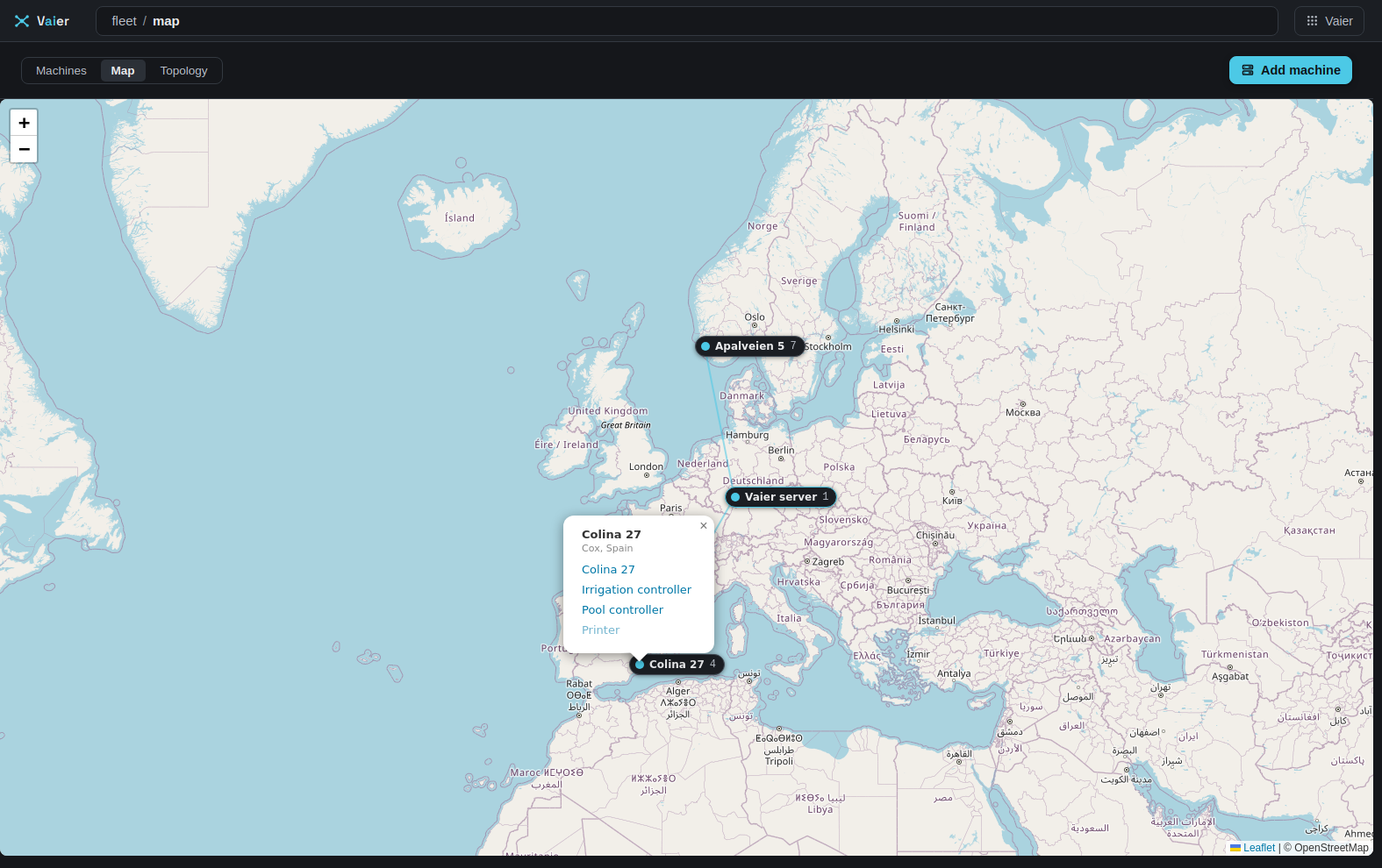
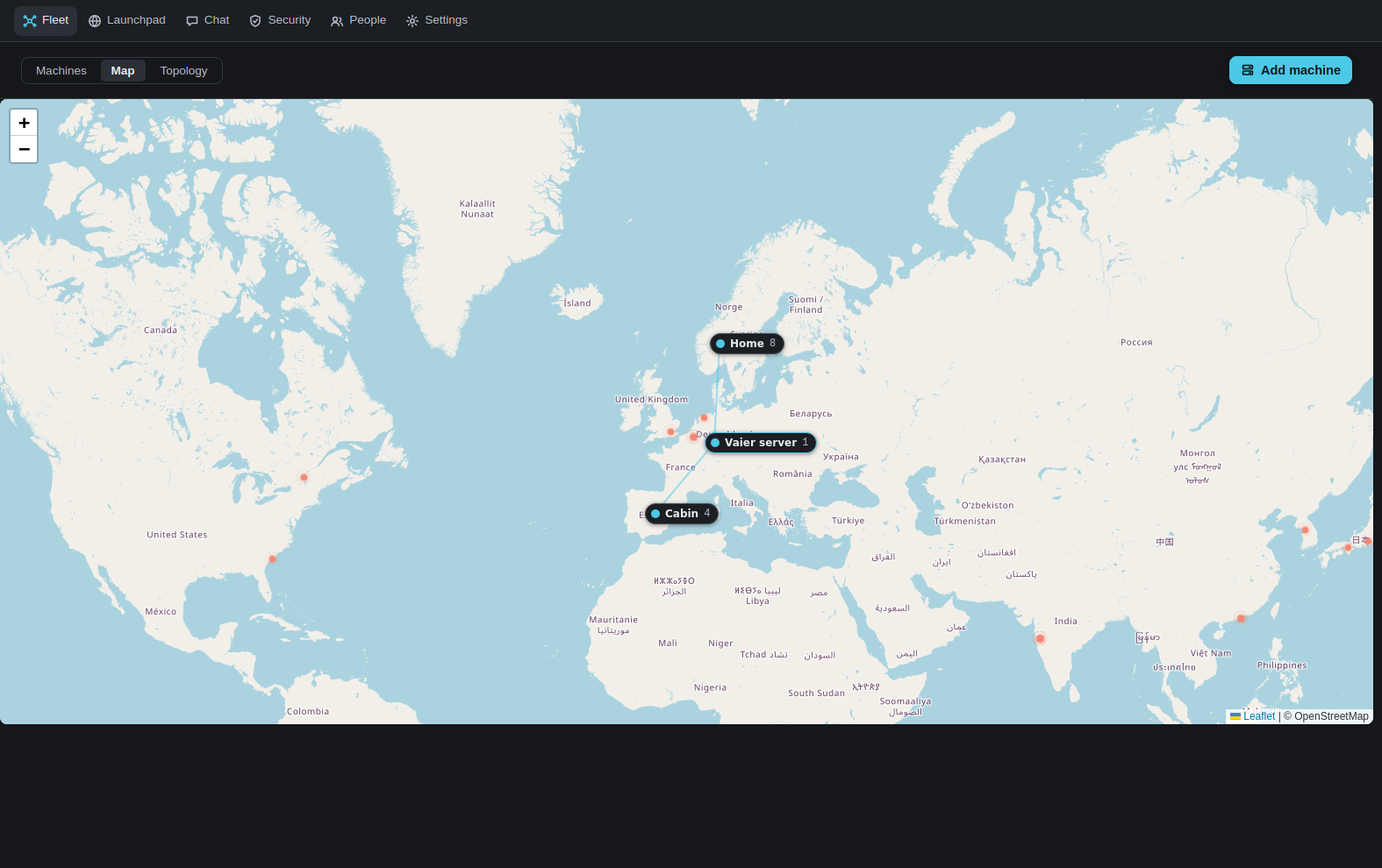
Sync ad19653

diff --git a/web/index.html b/web/index.html
@@ -470,7 +470,7 @@
             </figure>
             <div class="shots-pair">
                 <figure class="shot">
-                    <img src="img/fleet.jpg" width="1440" height="630" loading="lazy" alt="The fleet: every machine as a card">
+                    <img src="img/fleet.jpg" width="1440" height="710" loading="lazy" alt="The fleet: every machine as a card">
                     <figcaption>Every machine in one place.</figcaption>
                 </figure>
                 <figure class="shot">

diff --git a/docs/EXPLORER.md b/docs/EXPLORER.md
@@ -12,7 +12,7 @@ Your Vaier's address takes an admin to the **Fleet** and everyone else to the **
 
 - The **navigation bar** holds **Fleet**, **Launchpad**, **Chat** (while an Anthropic key is stored), **Security**, **People** and **Settings**, with the current one marked. It sits in the topbar, as icons only on a phone. Admins see it on the Launchpad too; nobody else does.
 - Your avatar, at the topbar's right end, holds **Concepts** (the in-app glossary) and **Sign out**.
-- **Settings** holds what you set up once: backup hour, survival kit, mail, Chat's key, default disk alert level and **Fleet credentials**. Each is one line with **Change**. Trouble is never shown here; it goes in **Needs you**.
+- **Settings** holds what you set up once: backup hour, survival kit, mail, Chat's key, default disk threshold and **Fleet credentials**. Each is one line with **Change**. Trouble is never shown here; it goes in **Needs you**.
 
 ---
 
@@ -25,7 +25,7 @@ The top of the **Fleet** answers "is anything wrong?". **Needs you** is one list
 - an alert mail that did not go out (**Check mail**);
 - a Vaier update that failed or rolled back;
 - a server not answering (**I switched it off**, see below) — phones and laptops that are away are never listed;
-- a backup that went wrong (**Open its backup**, **Get this machine ready**, or **Back up everything**);
+- a backup that went wrong (**Open its backup**, **Get this machine ready**, or **Back up as root**);
 - a disk past or near its threshold (**Open its disk**);
 - security updates waiting (**Install OS updates**);
 - [reverse proxy config](MONITORING.md#reverse-proxy-audit) entries no route can reach (**See which**);
@@ -59,7 +59,7 @@ A machine's page shows its name (plus one line when it is not well), its Needs y
 
 A door is greyed, with the reason on hover, when Vaier can't sign in. Below the doors come **What to do next** (nudges for this machine) and, when updates wait, a line such as "4 updates waiting · none urgent" with **Install OS updates**.
 
-Everything else sits in one closed fold, **Sign-in, details and removal**: who Vaier signs in as (**Change**, **Stop Vaier signing in here**), addresses, **Edit details**, **Send its setup again**, **Give it new keys**, and **Remove machine** last, in red.
+Everything else sits in one closed fold, **Sign-in, details and removal**: who Vaier signs in as (**Change**, **Stop Vaier signing in here**), addresses, **Edit details**, **Send its setup again**, and last a red fold holding **Give it new keys** and **Remove machine**, each confirmed by typing the machine's name.
 
 ![The Explorer's fleet: every machine as a card](vaier-explorer.jpg)
 
@@ -75,7 +75,7 @@ A machine Vaier hasn't read yet shows no disk mark. That is not a claim the disk
 
 People, Security, Chat and Settings live in the **navigation bar**, not in the fleet. See [Access management](AUTH.md#access-management) for People.
 
-![The fleet's Map: one marker per site, each joined to the Vaier server by its tunnel, with a site opened to list its machines](vaier-map.png)
+![The fleet's Map: one marker per site, each joined to the Vaier server by its tunnel](vaier-map.png)
 
 ### Files
 
@@ -83,7 +83,7 @@ Folders are read over SFTP as you open them, using the machine's stored credenti
 
 ### Containers and published services
 
-**Apps** lists containers with a published port, running or stopped. A stopped one reads **DOWN**; one Vaier saw running and now finds stopped reads **gone**.
+**Apps** lists containers with a port, published or only exposed, running or stopped. A stopped one reads **DOWN**; one Vaier saw running and now finds stopped reads **gone**.
 
 Vaier cannot start, stop or read logs — use the shell. Its one action is **Update** on an out-of-date container started by compose: it pulls the new image, recreates the container and removes the old image. A container on a **moving tag** (a daily `latest`) is marked `moving` and never mailed about.
 
@@ -91,7 +91,7 @@ Vaier cannot start, stop or read logs — use the shell. Its one action is **Upd
 
 ### Disk
 
-**Storage** lists every real filesystem with its usage and threshold. Mute one that is full by design, or give it its own threshold. A new volume is watched by default. See [MONITORING](MONITORING.md).
+**Storage** lists every real filesystem with its usage and threshold. Stop watching one that is full by design, or give it its own threshold; one using the fleet's shows it greyed. A new volume is watched by default. See [MONITORING](MONITORING.md).
 
 ### The backup server's own entry
 
@@ -105,7 +105,7 @@ Pick the fleet's backup server with **Make this the fleet's backup server** on a
 - **Download** a file, or a zip of a folder or several items. Anything Vaier cannot read, and anything that is not an ordinary file (a pipe, socket or broken link), is listed in *Not included.txt* inside the zip.
 - **Transfer** a file or folder to another machine, with live progress. What Vaier cannot read is left out, as in a zip. Something of the same name already there is never replaced without asking; a restore from the past puts the past back without asking.
 - **Upload** by dropping files on the folder or with **Upload files**. Files only. An existing name is never replaced without asking.
-- **Delete** behind a typed machine-name confirmation. It cannot be undone.
+- **Delete**, confirmed by typing the file's name (or, for several, how many). It cannot be undone.
 
 **Every write goes to the present.** Copying *from* an archive and pasting back is how you restore. Verbs Vaier's sign-in can't perform are hidden; an ACL or read-only mount can still make the machine refuse.
 
@@ -185,11 +185,11 @@ Ctrl/Cmd+C and Ctrl/Cmd+V work as usual. In vim, htop or Claude Code, hold **Shi
 
 Store the one SSH login Vaier uses for each machine, a password or a private key, from the machine's page. Secrets are encrypted and never shown back.
 
-**SSH access** turns SSH on or off per machine; off hides Shell, Files and Storage. Machines where Vaier signs in as `root` are tagged. No key? Vaier generates one and shows the line for `authorized_keys`.
+**SSH access** turns SSH on or off per machine; off means Vaier never signs in there: Shell, Files and Storage are hidden, and Marvin, backups and fleet credentials leave it alone. Machines where Vaier signs in as `root` are tagged. No key? Vaier generates one and shows the line for `authorized_keys`.
 
 ### OS updates
 
-Every five minutes Vaier counts waiting updates on apt machines. A machine with updates says so — "2 security updates waiting · 5 in all" — with **Install OS updates**. Security updates also show in **Needs you**.
+Every five minutes Vaier counts the updates an install would put on apt machines; ones Ubuntu is still holding back for a staged rollout wait until it offers them. A machine with updates says so — "2 security updates waiting · 5 in all" — with **Install OS updates**. Security updates also show in **Needs you**.
 
 **Install OS updates** upgrades as root after a confirm (apt or dnf). It removes nothing and **never reboots**; the result says when a reboot is due. Root comes from a root login or `sudo`. A machine without root, or without apt or dnf (a Synology), is refused with the reason. A failure is mailed to the admins. Marvin can propose this too; see [Chat](CHAT.md#acting-with-your-click).
 
@@ -203,6 +203,7 @@ A **fleet credential** is one secret that must exist on every machine: a name, a
 - **Distribute** writes it everywhere and checks it arrived intact.
 - **Withdraw** removes it from the machines. **Delete** only makes Vaier forget it, so withdraw first.
 - Every five minutes Vaier re-writes it where it is missing or out of date.
+- Changing the path of a distributed credential first removes the file at the old path from every machine Vaier can reach.
 
 ### Claude sign-in
 

diff --git a/docs/AUTH.md b/docs/AUTH.md
@@ -43,7 +43,7 @@ Configure Google, GitHub, both, or neither for now. The sign-in page shows a but
 
 Then give Vaier the client id and secret, one of two ways:
 
-- **From People → Sign-in providers.** The section shows the redirect URI with a copy button, a link to each provider's console, and the id and secret fields. **Save** applies it in a few seconds. If it fails, the working config stays and the error shows under the button. The secret is write-only and is stored in `./vaier/config/sign-in-providers.env` (mode `0600`).
+- **From People → Sign-in providers.** The section shows the redirect URI with a copy button, a link to each provider's console, and the id and secret fields. **Save** applies it in a few seconds; once set, it folds to one line with **Change**. If it fails, the working config stays and the error shows under the button. The secret is write-only and is stored in `./vaier/config/sign-in-providers.env` (mode `0600`).
 - **From `.env`.** Set `VAIER_OIDC_GOOGLE_CLIENT_ID` / `VAIER_OIDC_GOOGLE_CLIENT_SECRET` and/or `VAIER_OIDC_GITHUB_CLIENT_ID` / `VAIER_OIDC_GITHUB_CLIENT_SECRET` and run `docker compose up -d`. **`.env` wins**: People then shows that provider read-only as *set in .env*.
 
 `install.sh` generates three secrets into `.env` for you: `VAIER_OAUTH2_COOKIE_SECRET`, `VAIER_DEX_CLIENT_SECRET` and `VAIER_CROWDSEC_BOUNCER_KEY`. If you hand-write `.env`, generate all three — a missing one stops `docker compose` with a message naming it. Re-running `install.sh` in place is simpler: it tops up what is missing and never overwrites a value.
@@ -64,7 +64,7 @@ A CrowdSec ban on your own address does not stop you signing in: the console is 
 Manage who can sign in from **People** in the navigation bar. Each identity — Google, GitHub or the first-run account — has a **role** (pending → user → admin) and free-form **access groups**. People has three parts:
 
 - **Waiting to be let in** — shown only while someone waits: **Let in**, **Let in as admin**, **Turn away**.
-- **People** — admins first, then users. The **…** menu offers **Make an admin** / **Make a user**, **Change groups** and **Remove access**. **Add a person** lets someone in before their first sign-in.
+- **Let in** — everyone with access, admins first, then users. The **…** menu offers **Make an admin** / **Make a user**, **Change groups** and **Remove access**. **Add a person** lets someone in before their first sign-in.
 - **Sign-in providers** — Google and GitHub (above).
 
 A first-time sign-in mails every admin (if SMTP is configured).
@@ -75,19 +75,19 @@ A first-time sign-in mails every admin (if SMTP is configured).
 
 ---
 
-## Per-service auth mode
+## Who can open a service
 
-Each published service card has an **auth mode** picker: **Public** (no sign-in) or **Social** (Google or GitHub sign-in, with Vaier deciding who's approved). Change it any time.
+Each published service's page starts with **Who can open it**: *Anyone — no sign-in*, or *Only people who sign in to Vaier* (Google or GitHub sign-in, with Vaier deciding who's approved). Change it any time.
 
 Either way, a published service never receives your Vaier sign-in: Vaier blanks it on the way in, so an app you don't fully trust cannot use it to reach the console. An app that keeps its own login is not affected.
 
 ## Per-service access rules
 
-For a **Social** service, open its entry in the **Explorer** and use the **Allowed groups** chip picker. Empty means any approved user gets in. With groups set, only users holding at least one of them (plus admins) get in, and the service shows a **restricted** badge. Path-scoped services sharing one subdomain share one rule.
+For a service behind sign-in, open its entry in the **Explorer** and use the **Allowed groups** chip picker. Empty means any approved user gets in. With groups set, only users holding at least one of them (plus admins) get in. Path-scoped services sharing one subdomain share one rule.
 
 ## Service credentials
 
-Some services keep a login of their own behind social login — openHAB's API, say. A **service credential** is a username and password Vaier hands the service for every person it lets in. In the **Explorer**, open the published service and fill in **The login Vaier gives it** under **Sign people in for it**. It needs Social auth mode (*Only people who sign in to Vaier* under **Who can open it**). It also needs an address of its own: on an address shared by more than one service behind social login, a login would reach every one of them, so Vaier will not set or send it. Unpublishing a service drops the logins set on its address.
+Some services keep a login of their own behind social login — openHAB's API, say. A **service credential** is a username and password Vaier hands the service for every person it lets in. In the **Explorer**, open the published service and fill in **The login Vaier gives it** under **Sign people in for it**. It needs *Only people who sign in to Vaier* under **Who can open it**. It also needs an address of its own: on an address shared by more than one service behind social login, a login would reach every one of them, so Vaier will not set or send it. Unpublishing a service drops the logins set on its address.
 
 - **Shared** — for everyone without their own; all of them are one user to the service.
 - **Personal** — for one person, so the service can tell them apart.
@@ -107,4 +107,4 @@ Vaier checks each published service's own sign-in and the service pane says what
 
 ## Open services
 
-A **Public** service whose own sign-in reads as **none** is an **open service**: anyone who finds the name can use it. Vaier mails admins about each one **once**. In the service's pane, **Put Vaier's sign-in in front** switches it to Social; **This is meant to be public** silences it.
+A service open to *Anyone* whose own sign-in reads as **none** is an **open service**: anyone who finds the name can use it. Vaier mails admins about each one **once**. In the service's pane, **Put Vaier's sign-in in front** puts it behind sign-in; **This is meant to be public** silences it.

diff --git a/docs/NETWORKING.md b/docs/NETWORKING.md
@@ -71,9 +71,9 @@ This is the only way a phone or a Windows PC joins.
 
 1. On the device, open the **Launchpad** and use the **Install card** — no store, no account. The app already knows your Vaier's address.
 2. In the app, ask to join. It shows a four-digit **join code**.
-3. Approve it under **Waiting to join** on the fleet page, or from the mail admins receive.
+3. Approve it from **Needs you** on the fleet page, or from the mail admins receive.
 
-At most five devices wait at once, and at most two from one internet address. A request waits ten minutes. Once approved, a device that was asleep or out of reach has a day to come back for its config. One that never does stays on the fleet page with no handshake; remove it there. The mail goes out at most once every ten minutes, so check **Waiting to join** for the rest.
+At most five devices wait at once, and at most two from one internet address. A request waits ten minutes. Once approved, a device that was asleep or out of reach has a day to come back for its config. One that never does stays on the fleet page with no handshake; remove it there. The mail goes out at most once every ten minutes, so check **Needs you** for the rest.
 
 The private key never leaves the device, so there is nothing to save.
 
@@ -98,7 +98,7 @@ Personal devices use Vaier's **Pi-hole** for DNS, reachable only through the tun
 
 If the scan finds nothing, use **Add by address instead**. An address another machine already has is refused — remove or fix that one first.
 
-Then run the host's single-use **setup link** with `sudo`. It opens the Docker API to the fleet only and adds routes to the rest of your network. It is safe to re-run.
+Then run the machine's single-use **setup link** with `sudo`. It opens the Docker API to the fleet only and adds routes to the rest of your network. It is safe to re-run.
 
 A peer that is the only way to reach some LAN servers can't be removed, or have its network changed to one that leaves them out, until those LAN servers are removed.
 
@@ -111,20 +111,20 @@ For LAN servers reached from non-peer machines, see [`docs/ADVANCED.md`](ADVANCE
 ## Publishing a service
 
 1. Start a Docker container on any connected peer.
-2. In the **Explorer**, open the peer's pane; the container shows as a **+ Publish** row.
-3. Click it, enter a subdomain, and optionally require Social login.
+2. In the **Explorer**, open the peer's services; the container shows under **Ready to publish**.
+3. Press **Publish**, enter a subdomain, and optionally require a login.
 4. Vaier writes the route and waits for Traefik to accept it. There is no DNS step.
 
 The service is live at `https://subdomain.yourdomain.com`. If Traefik refuses the route, or never loads it, Vaier removes it again.
 
-A name too close to an existing one is refused: `printer-colina27` beside `printer.colina27`, or `/a-b` beside `/a/b` on one subdomain. Pick another.
+A name too close to an existing one is refused: `printer-cabin` beside `printer.cabin`, or `/a-b` beside `/a/b` on one subdomain. Pick another.
 
 - Open a published service under its machine to edit it or **Unpublish** it. The container keeps running.
-- **Ignore** hides a **+ Publish** row.
+- **Ignore** hides a row from **Ready to publish**.
 - A LAN server behind a relay has a **Publish LAN port** form.
 - On the Vaier server, only **Traefik's dashboard** and **Pi-hole's admin** are offered from Vaier's own stack. Publish them behind social login: like the console, only admins can open them, and only admins see their tiles.
 
-For auth modes and who can reach a service, see [`docs/AUTH.md`](AUTH.md).
+For who can open a service, see [`docs/AUTH.md`](AUTH.md).
 
 ### Multiple services on one subdomain
 
@@ -147,13 +147,13 @@ Choose **raw TCP** instead of **website** to publish a **stream**: clients conne
 
 A public page that links to your published services, switching to LAN URLs when you're on the same network. Strangers see only public services. Signed-in users also see the social-login services they may reach; admins see all.
 
-You can hide internal-only services. A red dot means the host is confirmed unreachable.
+You can hide internal-only services. A red dot means the machine is confirmed unreachable.
 
 ---
 
 ## Reverse proxy
 
-Each service has an **auth mode** (public or **Social login**). When a backend is down, visitors see Vaier's **offline page**.
+Each service's **Who can open it** is *Anyone — no sign-in* or *Only people who sign in to Vaier*. When a backend is down, visitors see Vaier's **offline page**.
 
 ## Edge hardening
 
@@ -187,6 +187,6 @@ DNS is one record you make once, at your DNS host:
 
 That covers the console, sign-in and every service you publish. Vaier needs no DNS credentials. At boot Vaier checks the record; anything but **covered** shows as a **pre-flight** finding under **Needs you** on the Fleet.
 
-> **One caveat worth knowing.** Vaier publishes machine-qualified names two labels deep — `openhab.colina27.yourdomain.com`. If your zone gains a real record *under a machine label* (say an `A` record for `colina27.yourdomain.com`), `*.yourdomain.com` stops covering everything beneath `colina27` and that machine's services go dark. Keep the zone free of records under a machine label, or add a `*.colina27.yourdomain.com` wildcard alongside it.
+> **One caveat worth knowing.** Vaier publishes machine-qualified names two labels deep — `openhab.cabin.yourdomain.com`. If your zone gains a real record *under a machine label* (say an `A` record for `cabin.yourdomain.com`), `*.yourdomain.com` stops covering everything beneath `cabin` and that machine's services go dark. Keep the zone free of records under a machine label, or add a `*.cabin.yourdomain.com` wildcard alongside it.
 
 Certificates are still issued one per hostname; the record is not a wildcard certificate.

diff --git a/docs/MONITORING.md b/docs/MONITORING.md
@@ -4,7 +4,7 @@ Back to [README](../README.md).
 
 What Vaier watches, when it mails you, and what you can do about it. Outside these cases it stays quiet.
 
-![A machine's Storage page: each disk's fill, with its own alert level](vaier-storage.jpg)
+![A machine's Storage page: each disk's fill, with its own threshold](vaier-storage.jpg)
 
 ---
 
@@ -53,7 +53,7 @@ Every five minutes Vaier runs `df` over SSH on every machine it holds a **host c
 - **Recovery needs a margin** of five points below the threshold, so a disk wobbling around the line doesn't mail you daily.
 - Mails carry size: *"[Vaier] NAS /volume1 is at 91% full (10.8 TiB, 1.0 TiB free)"*.
 
-**Threshold** — default **85%**, under Settings → *Disk alerts*. From a machine's **disk** entry in the **Explorer**, give a filesystem its own threshold or **mute** it.
+**Threshold** — default **85%**, under Settings → *Disk alerts*. From a machine's **disk** entry in the **Explorer**, give a filesystem its own threshold, or untick **Watch** to stop watching it. A filesystem using the fleet's threshold shows it greyed, marked *the fleet's*.
 
 Each machine's card in the **Explorer** shows its worst watched filesystem: green, amber closing on its threshold, red over it. An unread machine shows **no mark at all**.
 
@@ -87,7 +87,7 @@ Trouble must show on two consecutive scrapes, so an **Update** or a restart does
 
 **What you see.** The container list says **gone**, **unhealthy** or **restart-looping**, and the machine's pane gets a card under *What to do next* saying when it was last well. It has **no button**: Vaier cannot start or restart containers.
 
-**What you're mailed.** One mail when trouble starts (*webtrees is unhealthy on Apalveien 5*), one when it is running well again; getting worse earns a new mail. A removed container earns one mail and is forgotten. If the machine rebooted after the container was last seen running, the mail says so. Times are in the server's own time zone.
+**What you're mailed.** One mail when trouble starts (*webtrees is unhealthy on Home*), one when it is running well again; getting worse earns a new mail. A removed container earns one mail and is forgotten. If the machine rebooted after the container was last seen running, the mail says so. Times are in the server's own time zone.
 
 ---
 
@@ -96,7 +96,7 @@ Trouble must show on two consecutive scrapes, so an **Update** or a restart does
 Once a day Vaier compares each container's image digest with what its registry serves for the **same tag**. Any Registry v2 host works, no account needed. **The sweep never pulls and never restarts anything.**
 
 - **Vaier's own stack is not watched** — it updates with Vaier; see [Updating Vaier itself](#updating-vaier-itself).
-- **One rollup mail** when images newly go out of date, naming image and machine (`vaultwarden/server:latest on Apalveien 5`).
+- **One rollup mail** when images newly go out of date, naming image and machine (`vaultwarden/server:latest on Home`).
 - An image on a machine that was offline at sweep time, or in a stopped container, keeps what Vaier knew — it isn't mailed again when it's back.
 - A **moving tag** (rebuilt daily, like `netdata/netdata:latest`) keeps its mark, labelled `moving`, but is never mailed.
 - A registry Vaier can't read, a locally built image or a digest-pinned one reads **unknown** and shows no mark — so no mark is not a promise the image is current.
@@ -105,13 +105,13 @@ Out-of-date containers wear a small yellow mark in the **Explorer**. Only the Va
 
 ### Update
 
-An out-of-date container started by compose has an **Update** button. Vaier pulls the new image, recreates that container (briefly down), then removes the old image if nothing else uses it. If the recreate fails, the old container keeps running.
+An out-of-date container started by compose has an **Update** button. Vaier pulls the new image, recreates that container and any other service of its compose project on the same image, such as a worker (briefly down), then removes the old image if nothing else uses it. If the recreate fails, the old container keeps running.
 
 No button for a container started by hand, one in Vaier's own stack, or one on a machine where Vaier's SSH user isn't in the `docker` group — add it, and the button comes back.
 
 ### Updating Vaier itself
 
-**Settings → Update Vaier** updates the whole of Vaier's own stack, compose file included, then runs `docker compose up -d`. If the stack doesn't come up, or Vaier doesn't answer within two minutes, it rolls back and Settings says so. The log is in `~/.vaier-upgrade/last-update.log` on the Vaier server.
+**Settings → Update Vaier** updates the whole of Vaier's own stack, compose file included, then runs `docker compose up -d`. If the stack doesn't come up, or Vaier doesn't answer within two minutes, it rolls back and Settings says so. A step that stalls for many minutes (a hung pull or download) ends the update the same way. The log is in `~/.vaier-upgrade/last-update.log` on the Vaier server.
 
 It never touches your `.env` values or runtime folders (`vaier/config`, `wireguard/config`, `traefik/acme`, …), and it doesn't remove orphan containers. The first update onto this version is image-only.
 

diff --git a/docs/CHAT.md b/docs/CHAT.md
@@ -33,7 +33,7 @@ Marvin can ask a published service itself: *"is the pool pump on?"* reads openHA
 - **Some reads change things** — OpenSprinkler switches a station on with a GET. Tick **Reading can change things here — Marvin always asks** on the service's page in the Explorer, under **Sign people in for it**. Every read there then waits for your yes, like a write.
 - **A write** (POST, PUT, PATCH or DELETE) is a **Chat action**: a card, or a mailed confirmation during an errand. Nothing is written until you say yes.
 
-Its card shows, always, the exact call — *"Sends POST /rest/items/PoolPump to openhab on Colina 27, with "ON"."* That line is what you are really approving. Then Marvin [carries on](#marvin-carries-on-after-your-yes).
+Its card shows, always, the exact call — *"Sends POST /rest/items/PoolPump to openhab on Cabin, with "ON"."* That line is what you are really approving. Then Marvin [carries on](#marvin-carries-on-after-your-yes).
 
 Only services Vaier publishes can be named, and the path must stay inside the service. Marvin never sees the credential. Streams and HTTPS backends with a self-signed certificate can't be reached.
 
@@ -43,7 +43,7 @@ Chat can also *act*, but never on its own say-so. It can propose letting a waiti
 
 A proposal puts a **Confirmation** card in the pane with a button that says exactly what it will do. Nothing runs until you click it, and the card is gone in ten minutes either way.
 
-Every card has a plain **headline** — *"Update mosquitto on Colina 27 to its latest version."* — and **details** underneath with the exact technical facts.
+Every card has a plain **headline** — *"Update mosquitto on Cabin to its latest version."* — and **details** underneath with the exact technical facts.
 
 OS updates take minutes; the outcome joins your Chat thread when done. See [OS updates](EXPLORER.md#os-updates).
 
@@ -57,11 +57,11 @@ Say "give me the pictures from last year today in a zip" and Chat finds them and
 
 ## Errands
 
-Say *"every morning, check whether the disk on Apalveien 5 is filling up, and only tell me if it is"* and Marvin writes himself an **errand**: a task and a **rhythm** — once, or daily, weekly or monthly at a stated time. He runs it alone and mails you what he found.
+Say *"every morning, check whether the disk on Home is filling up, and only tell me if it is"* and Marvin writes himself an **errand**: a task and a **rhythm** — once, or daily, weekly or monthly at a stated time. He runs it alone and mails you what he found.
 
 - An errand that finds nothing worth saying says nothing.
 - A report joins your Chat thread, or starts a fresh one if you've been quiet for three hours.
-- The **Marvin** menu's "Marvin's errands (N)" lists every errand with a cancel button.
+- Chat's **Errands** tab lists every errand with a cancel button.
 
 ### When an errand finds something to do
 
@@ -74,12 +74,12 @@ An errand can propose the same actions a card can, including writes to a service
 
 ## Memory
 
-Chat keeps a **memory** of short facts about the fleet. It never treats one as an instruction. Once an answer has read a web page, a search, a machine's output or a service, Marvin keeps, forgets and schedules nothing in that answer, and opens only pages a search found: text like that can carry somebody else's instructions. Ask him in your own words and he will. The pane's **Marvin** menu → "What Marvin remembers (N)" lists every memory with a remove button.
+Chat keeps a **memory** of short facts about the fleet. It never treats one as an instruction. Once an answer has read a web page, a search, a machine's output or a service, Marvin keeps, forgets and schedules nothing in that answer, and opens only pages a search found: text like that can carry somebody else's instructions. Ask him in your own words and he will. Chat's **Memory** tab lists every memory with a remove button.
 
 ## Spend
 
-The same menu's "Spend this month, $x.xx" shows Vaier's own count at list price. Anthropic's invoice wins if they disagree.
+Chat's **Spend** tab shows this month's cost by Vaier's own count, at list price. Anthropic's invoice wins if they disagree.
 
 ## The conversation
 
-The conversation is kept per operator, so it's still there next time you sign in. **Start a new conversation**, at the foot of the **Marvin** menu, forgets it for good after asking once; memories and errands stay. Past 40 turns, older ones are shortened into "Earlier, in brief: …".
+The conversation is kept per operator, so it's still there next time you sign in. **New conversation**, at the top of the **Conversation** tab, forgets it for good after asking once; memories and errands stay. Past 40 turns, older ones are shortened into "Earlier, in brief: …".

diff --git a/docs/ADVANCED.md b/docs/ADVANCED.md
@@ -43,7 +43,7 @@ Sign-in providers and mail are set later in the console — Google or GitHub und
 |----------|----------|-------------|
 | `VAIER_DOMAIN` | Yes | Base domain (e.g. `yourdomain.com`) |
 | `ACME_EMAIL` | Yes | Let's Encrypt email; first-run account if `VAIER_ADMIN_EMAIL` is blank |
-| `VAIER_TZ` | No | Time zone for schedules, e.g. `Europe/Oslo` (default `UTC`) |
+| `VAIER_TZ` | No | Time zone for schedules, e.g. `Europe/Berlin` (default `UTC`) |
 | `VAIER_OIDC_GOOGLE_CLIENT_ID` | Optional | Google OAuth client id |
 | `VAIER_OIDC_GOOGLE_CLIENT_SECRET` | Optional | Google OAuth client secret |
 | `VAIER_OIDC_GITHUB_CLIENT_ID` | Optional | GitHub OAuth App client id |
@@ -90,10 +90,10 @@ Keep `.env` at mode `600`.
 A *LAN server* is any machine that isn't itself a VPN peer — a NAS, a printer, IPMI, an extra Docker host — on a relay peer's LAN or **in the Vaier server's own subnet** (an AWS VPC, say). Register it once, then publish its services.
 
 1. Make sure its address is covered by something Vaier routes to:
-   - **Behind a relay peer:** Vaier offers the peer's network on that machine's page — "Colina 27 sits on 192.168.1.0/24" — usually one click. For a network it can't see, set it under **Advanced → Network behind it** in the machine's edit form.
+   - **Behind a relay peer:** Vaier offers the peer's network on that machine's page — "Cabin sits on 192.168.10.0/24" — usually one click. For a network it can't see, set it under **The network behind this machine** in the machine's edit form.
    - **In the Vaier server's own subnet:** on EC2 the subnet is auto-detected. To cover the whole VPC (e.g. `172.31.0.0/16`), or off EC2, set `VAIER_SERVER_LAN_CIDR`. Allow inbound from the Vaier server in the machine's security group or firewall.
 2. Add it: **Add a machine** → *Something already on one of my networks* (or **Add by address instead**), with Docker on or off.
 3. Run its single-use **setup link** with `sudo` on the machine. With Docker on, it opens the Docker API on TCP 2375 to the fleet only (no TLS), and it adds the routes back to the rest of your network.
-4. With Docker on, its containers appear in the discovered list and can be published. For a native service, use Services → **+ Publish LAN service**: pick the machine, enter port, subdomain and protocol. No DNS step.
+4. With Docker on, its containers appear under **Ready to publish**. For a native service, open the machine's services and use **Publish a service by hand**: enter port, subdomain and protocol. No DNS step.
 
 > **Limitation:** the "Vaier server's own subnet" path doesn't yet let *split-tunnel server peers* reach that subnet. Full-tunnel mobile and Windows clients already can.

diff --git a/docs/BACKUP.md b/docs/BACKUP.md
@@ -56,15 +56,15 @@ Each machine has one job: repository, source paths, excludes, retention (`keepDa
 
 borg runs as the SSH user, so **files that user cannot read are skipped**. Container volumes are the usual victims.
 
-**You are asked only when it has cost you something.** Such a run settles **incomplete**, emails the admins, and **Needs you** shows *‹machine›'s last backup is missing N files*, with **Back up everything**. One click installs the grant and turns the setting on; the row then offers **Back up now**, so the holes fill today rather than tonight. Where Vaier can't gain root, it hands you a `sudo bash <path>` command.
+**You are asked only when it has cost you something.** Such a run settles **incomplete**, emails the admins, and **Needs you** shows *‹machine›'s last backup is missing N files*, with **Back up as root**. One click installs the grant and turns the setting on; the row then offers **Back up now**, so the holes fill today rather than tonight. Where Vaier can't gain root, it hands you a `sudo bash <path>` command.
 
-To turn it back **off**, untick *Back up files owned by other users* under **Advanced** on the `backup` entry.
+To turn it back **off**, open the **Back up as root** fold on the `backup` entry and untick it.
 
 **A passwordless `sudo borg` is root-equivalent.** Turning it on makes Vaier's SSH credential for that machine as powerful as root. Grant it only where that is acceptable.
 
 ### Running
 
-Press **Run now** on the machine's `backup` entry, or let the **nightly schedule** run every enabled job. Set its hour (default 2) in **Settings**. A night whose hour was missed — Vaier was down, or the clocks went forward — runs later that day. A machine runs one backup at a time.
+Press **Back up now** on the machine's `backup` entry, or let the **nightly schedule** run every enabled job. Set its hour (default 2) in **Settings**. A night whose hour was missed — Vaier was down, or the clocks went forward — runs later that day. A machine runs one backup at a time.
 
 Each **backup run** ends as success, warnings, **incomplete**, failed, or unknown.
 
@@ -81,7 +81,7 @@ A machine [switched off on purpose](EXPLORER.md#switched-off-on-purpose) is **sk
 
 ### Archives
 
-Open a **backup repository** entry to list its archives. **Restore from the UI is not yet available** — use the borg CLI, or copy files out of an archive with the Explorer's time rail (see [`docs/EXPLORER.md`](EXPLORER.md)).
+Open a **backup repository** entry to list its archives. To restore, open an archive with the Explorer's time rail and copy files out of it (see [`docs/EXPLORER.md`](EXPLORER.md)).
 
 ---
 
